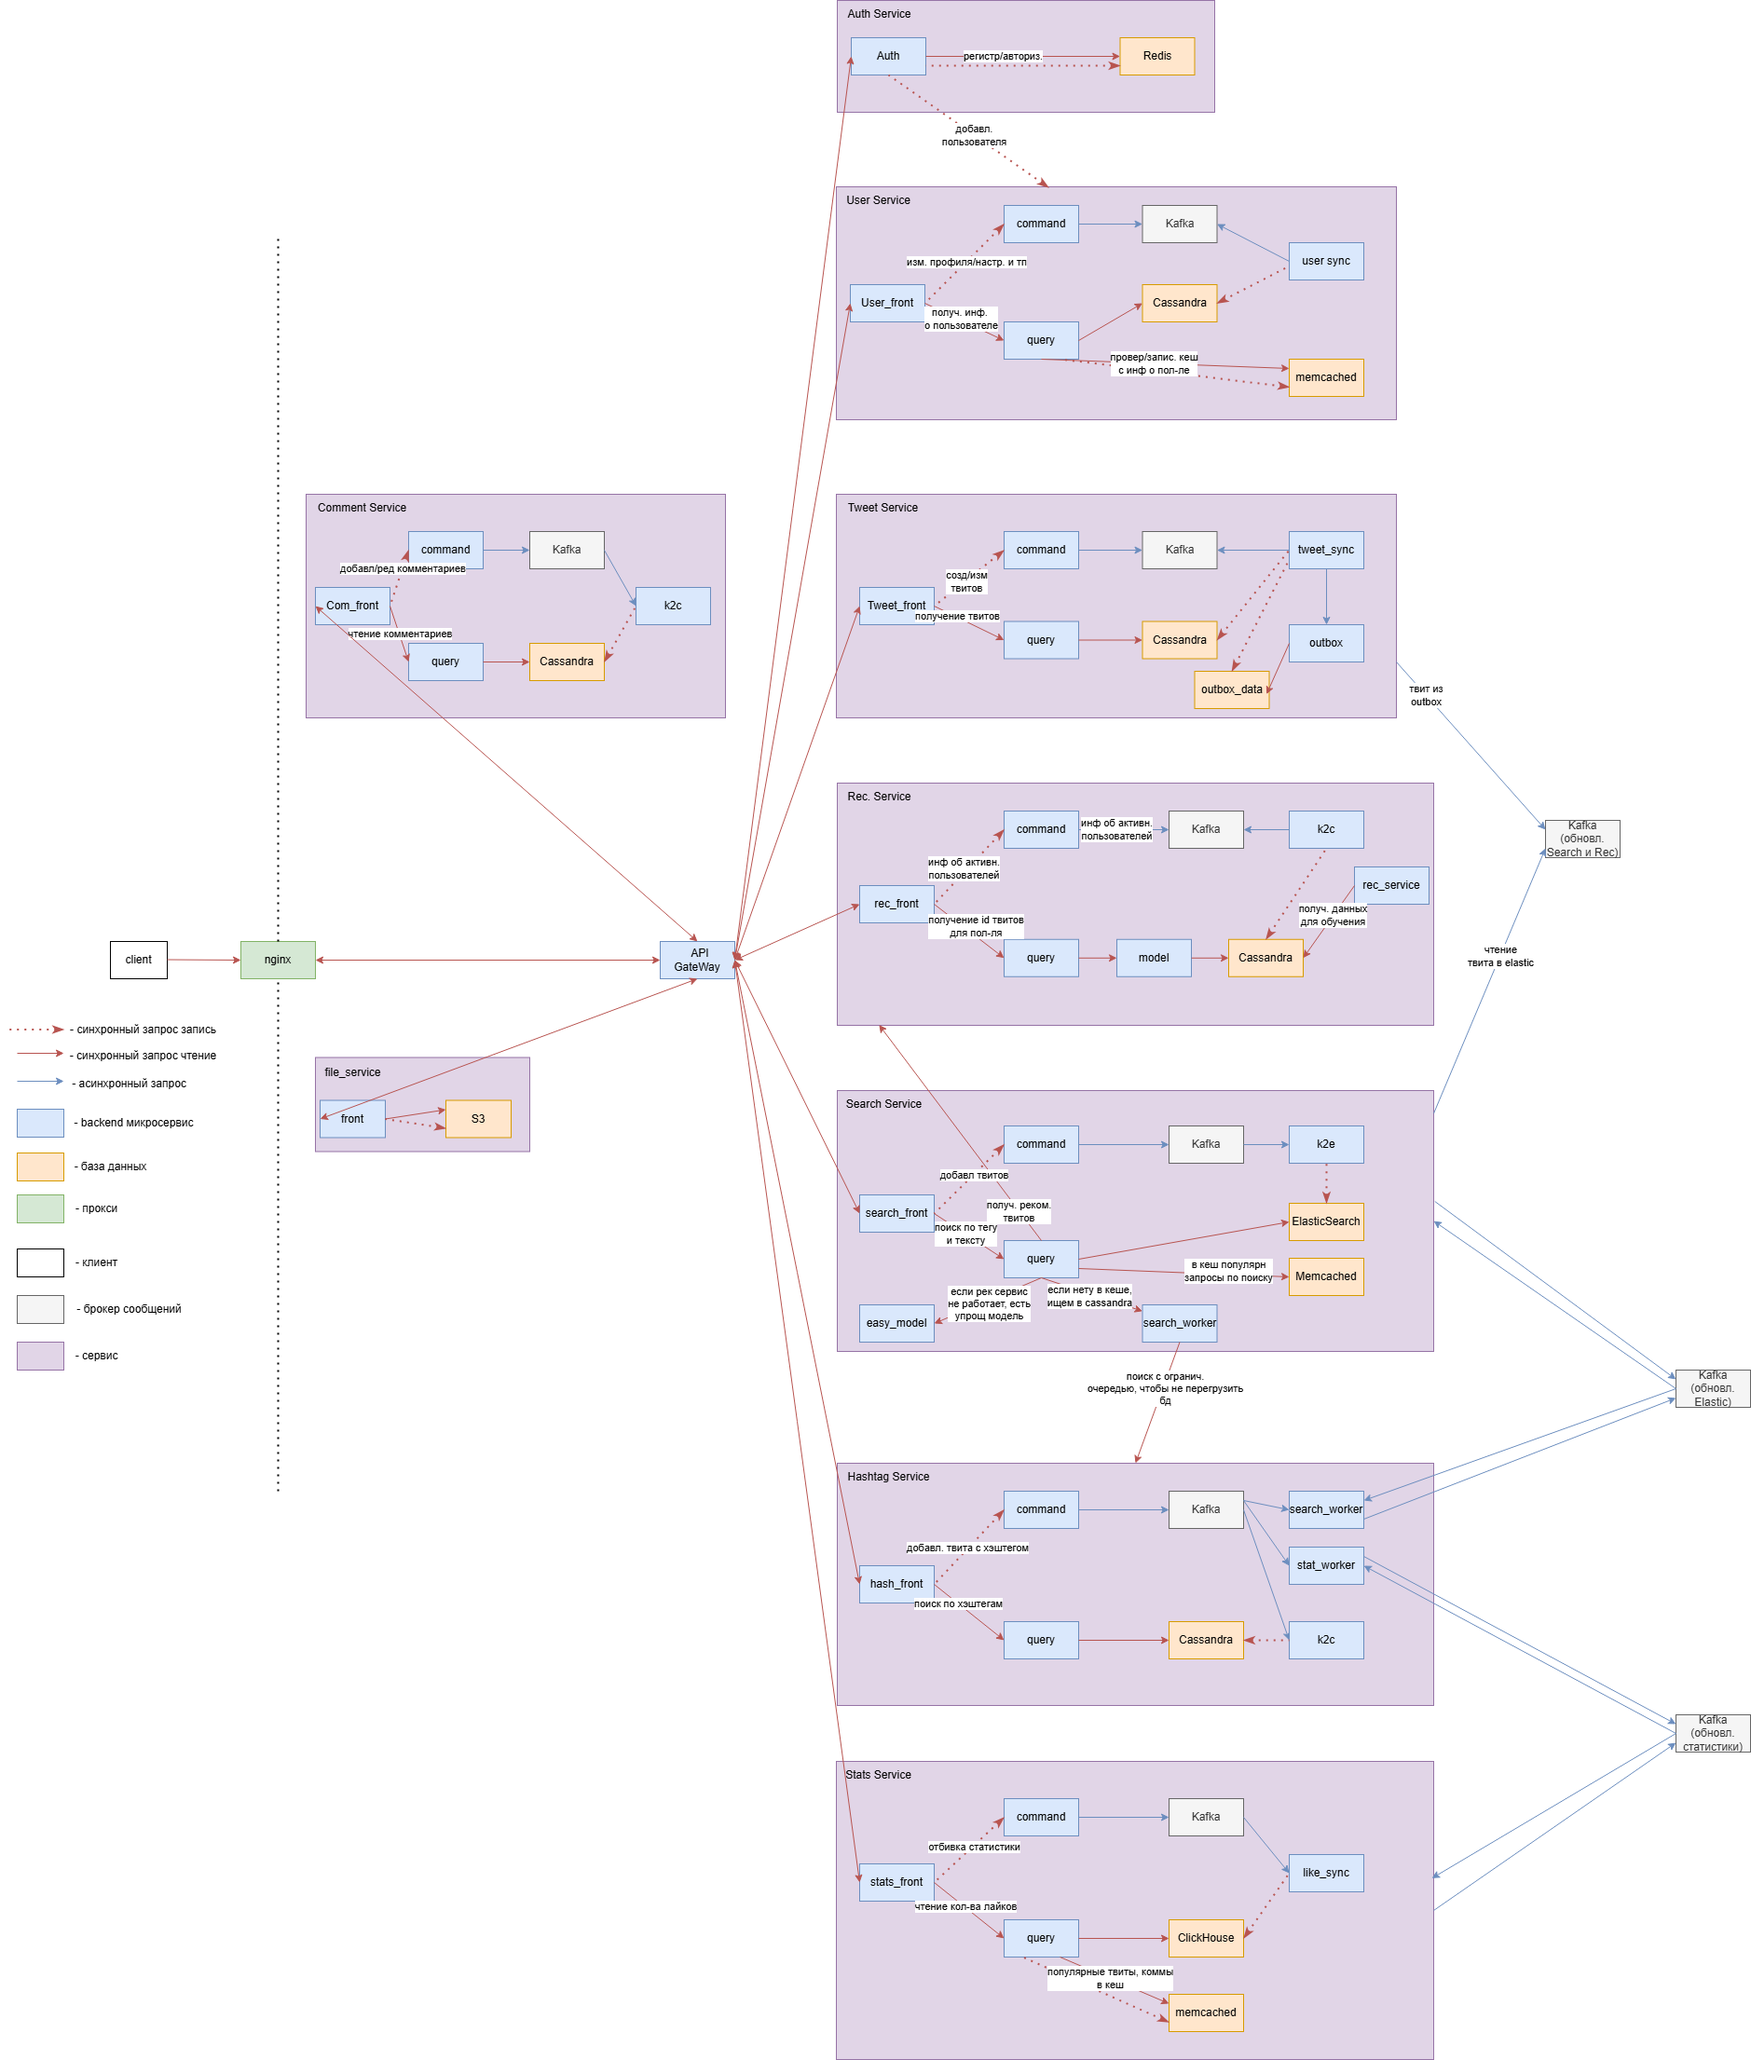
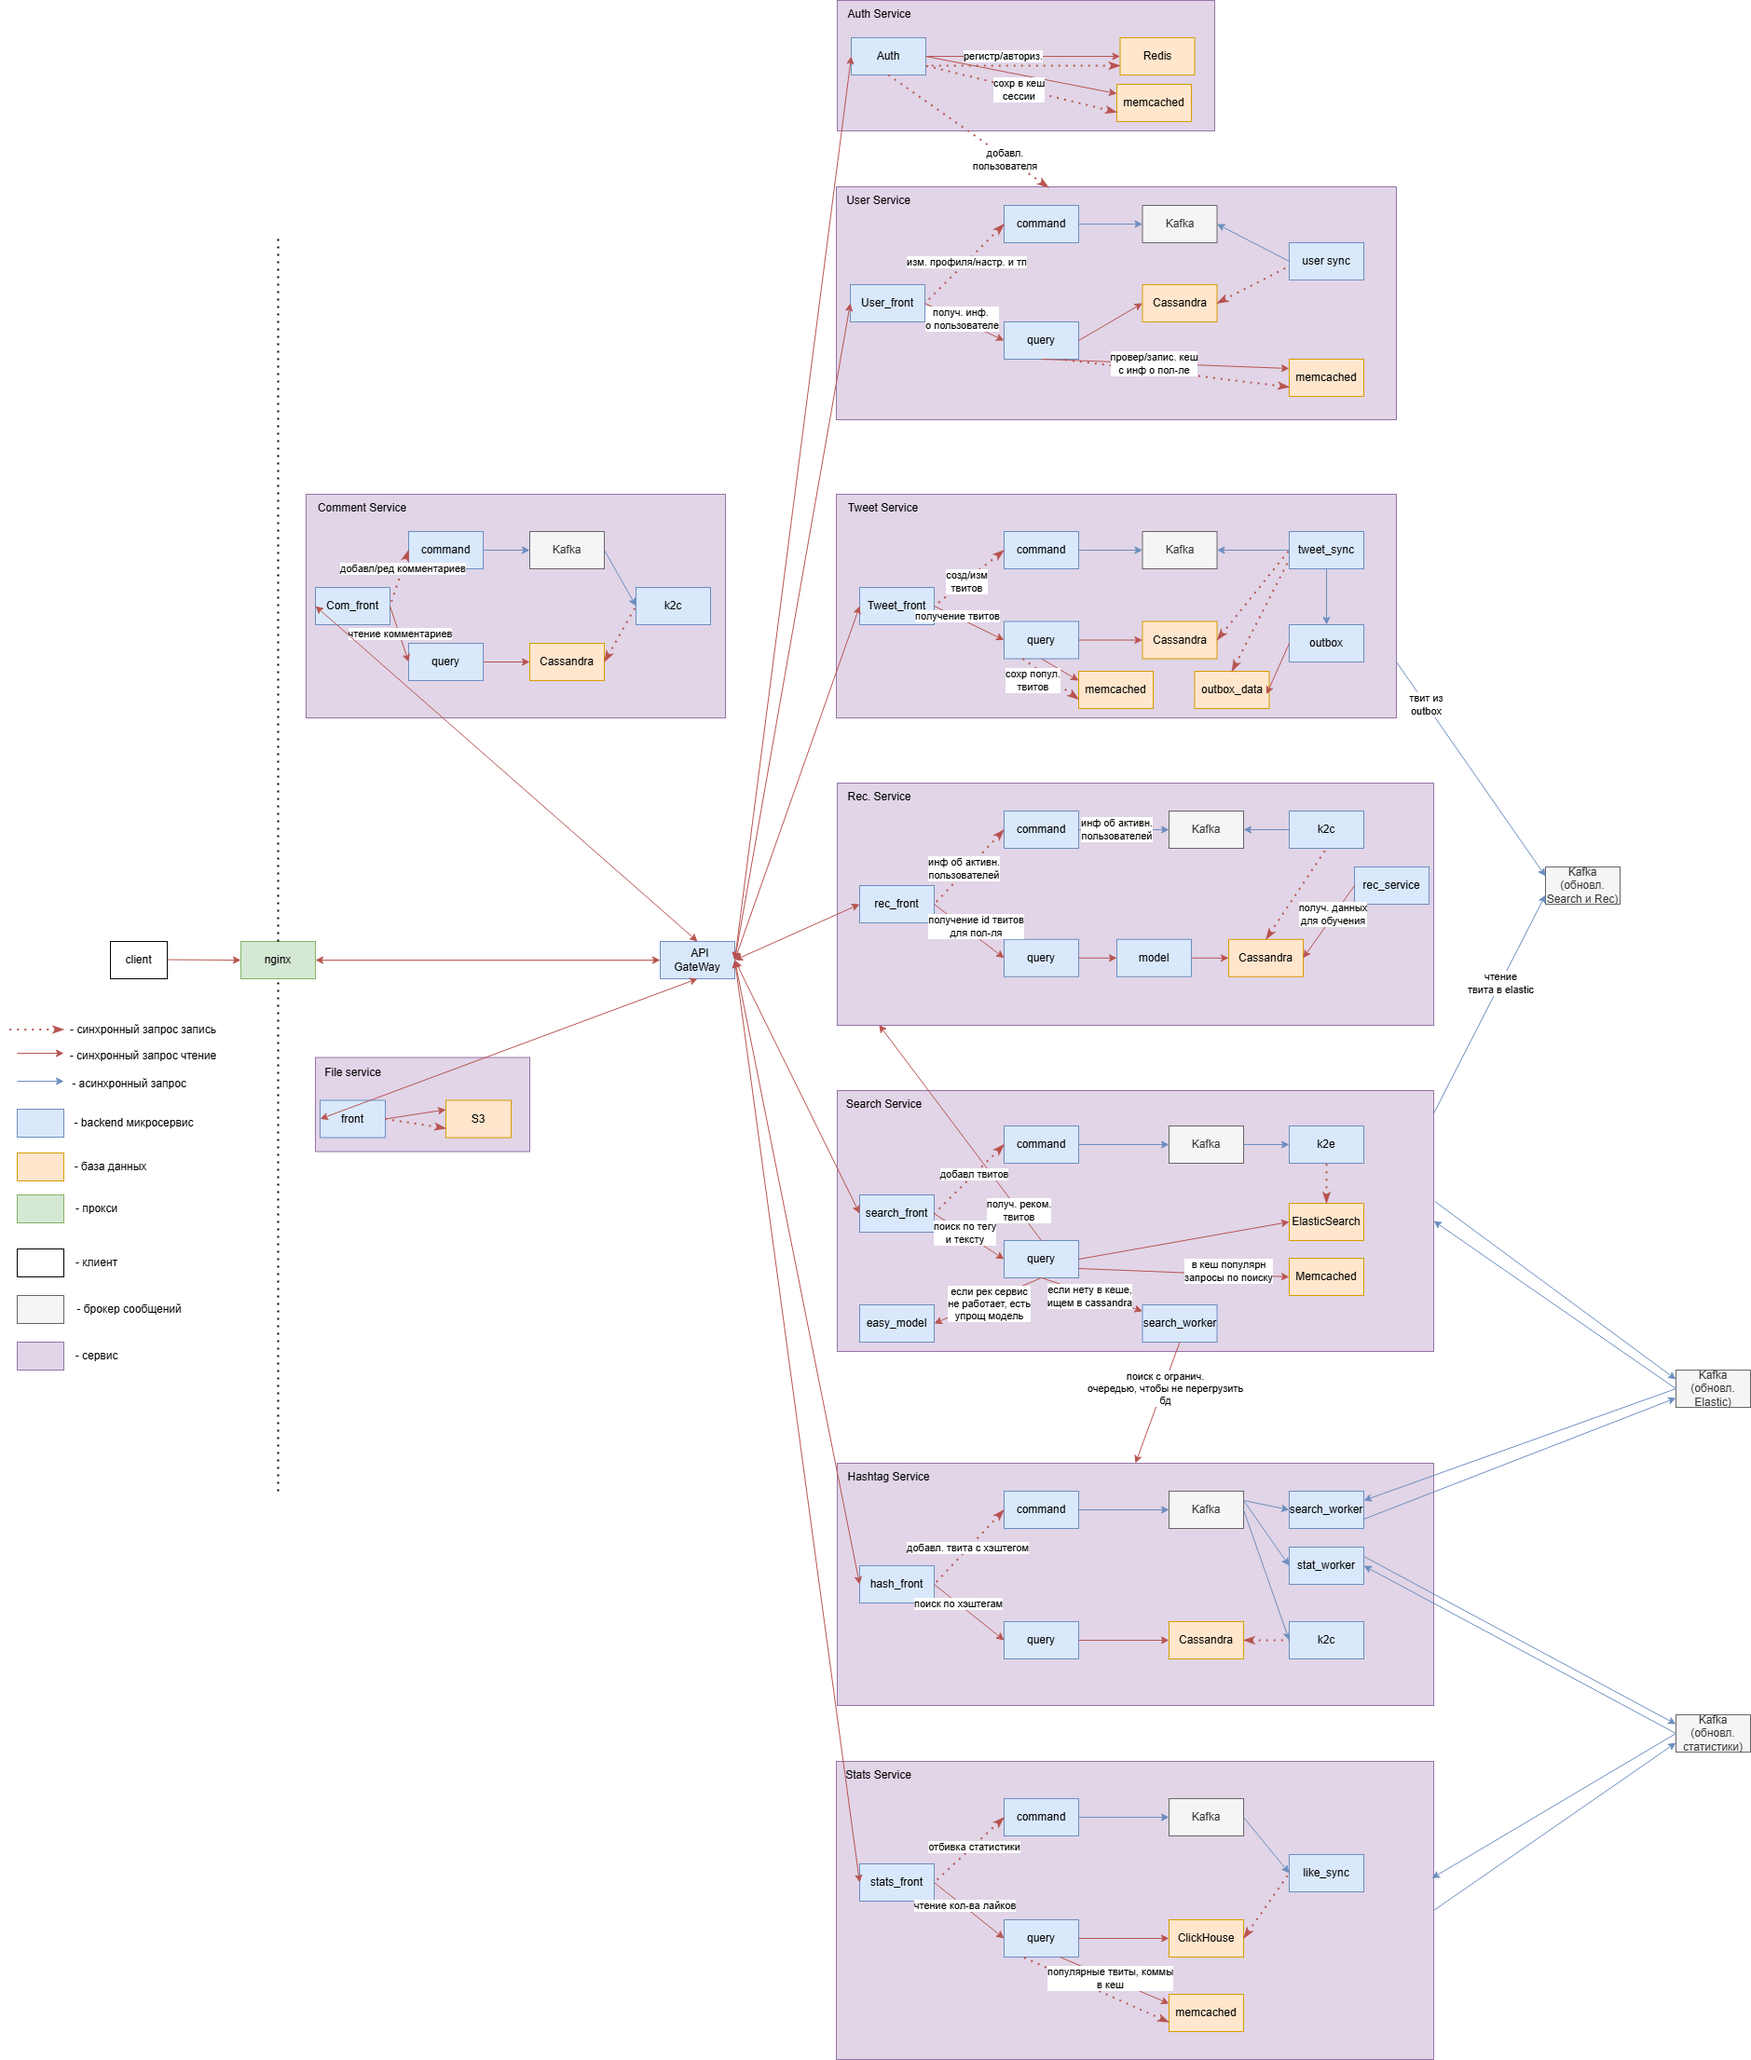
hw10 temp

diff --git a/README.md b/README.md
@@ -380,10 +380,21 @@ MediaContent.media(JSON)
 
 ![Схема проекта](/Project_schema.png)
 
-### Отказоустойчивость
+### Обеспечение надёжности
 
-1. 
-2. 
+| Компонент | Способ резервирования/ обесп надежности |
+| --- | --- |
+| Auth Service | Сохранение в кеш сессий, в случае отказа Redis, часть сессий будет доступна |
+| User Service | Сохранение в кеш информации о популярных пользователях |
+| Tweet Service | при создании новых твитов они записываются в outbox_data, чтобы после передать в Search Service; в кэше хранятся твиты от "популярных" пользователей  |
+| Rec. Service | - (резервирование в Search Service) |
+| Search Service | если не работает Rec. Service, то пытаемся по "упрощенному рекомендательному алгоритму" получить твиты или проверяем кеш для популярных запросов  |
+| Hashtag Service | при добавлении нового хештега обновляются данные в Search Service и Stats Service  |
+| Stats Service | кеш кол-во лайков|
+| File Service | - |
+
+| --- | --- |
+
 ### Список источников:
 1. [X](https://x.com/ "сам твиттер")
 2. [Statista](https://www.statista.com/statistics/242606/number-of-active-twitter-users-in-selected-countries/)
